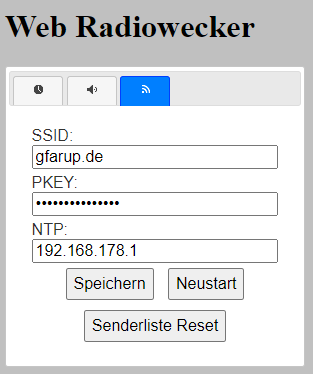
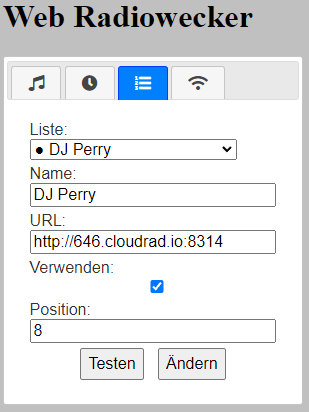
Remote Player
Von der Konfig Webseite ist jetzt eine Steuerung des Radio's möglich.

Changed region(s): [[0.0, 0.0, 0.9903, 1.0], [0.8738, 0.6471, 0.9029, 0.7059]]

diff --git a/radiowecker/index.h b/radiowecker/index.h
@@ -10,22 +10,33 @@ const char MAIN_page[] PROGMEM = R"=====(
 <script src="https://ajax.googleapis.com/ajax/libs/jquery/3.5.1/jquery.min.js"></script>
 <link rel="stylesheet" href="//code.jquery.com/ui/1.12.1/themes/base/jquery-ui.min.css">
 <script src="https://code.jquery.com/ui/1.12.1/jquery-ui.min.js"></script>
-
+<link rel="stylesheet" href="//use.fontawesome.com/releases/v5.0.7/css/all.css">
 <script>
 $(document).ready(function() {
-    $("#tabs").tabs();
-});
-
-$(function() {
-    $(document).ready(getAll);
-    $("#btn_save").click(saveSSID);
-    $("#btn_reset").click(restartHost);
-    $("#btn_test").click(testStation);
-    $("#btn_updt").click(updateStation);
-    $("#btn_restore").click(restoreStations);
-    $("#btn_savealarm").click(setAlarms);
-    $("#btn_cancelalarm").click(getAlarms);
-    $("#stationlist").change(getStation);
+  $("#tabs").tabs();
+  //Standard Stuff
+  getAll();
+  $("#btn_save").click(saveSSID);
+  $("#btn_reset").click(restartHost);
+  $("#btn_test").click(testStation);
+  $("#btn_updt").click(updateStation);
+  $("#btn_restore").click(restoreStations);
+  $("#btn_savealarm").click(setAlarms);
+  $("#btn_cancelalarm").click(getAlarms);
+  $("#stationlist").change(getStation);
+  // Player Tab ######################
+  $("#btn_play").click(startPlay);
+  $("#btn_stop").click(stopPlay);
+  GainSlider();
+  $("#tabs").tabs({
+    activate: function(event, ui) {
+      // Überprüfen, ob das aktivierte Tab die ID "#player" hat
+      if (ui.newTab.find("a").attr("href") === "#player") {
+        // Wenn ja, AJAX-Anfrage auslösen
+        updateGainSlider();
+      }
+    }
+  });       
 });
 
 function getAll() {
@@ -191,6 +202,68 @@ function restartHost() {
         data:{},
     });
 }
+// Player Tab ######################
+function startPlay() {
+    $.ajax({
+        type:"POST",
+        url:"/cmd/startPlay",
+        data:{},
+    });
+}
+function stopPlay() {
+    $.ajax({
+        type:"POST",
+        url:"/cmd/stopPlay",
+        data:{},
+    });
+}
+function GainSlider() {
+  $("#GainSlider").slider({
+    min: 0,
+    max: 100,    
+    stop: function(event, ui) {
+      var sliderValue = ui.value;
+      console.log("Slider-Wert:", sliderValue);
+      // Daten senden
+      $.ajax({
+          type:"GET",
+          url:"/cmd/GainSlider",
+          data:{"GainValue":sliderValue},
+          success: function(data){
+
+          },
+          error: function() {
+              alert("ERROR");
+          }
+      });
+    }   
+  });
+  $.ajax({
+    type: "GET",
+    url: "/cmd/getCurrentGain",
+    success: function (data) {
+      // Hier den zurückgegebenen Wert als Startwert für den Slider verwenden
+      var currentGain = parseInt(data);
+      $("#GainSlider").slider("value", currentGain);
+    },
+    error: function () {
+      alert("Fehler beim Abrufen des Gain-Werts");
+    },
+  });  
+}
+function updateGainSlider() {
+  $.ajax({
+    type: "GET",
+    url: "/cmd/getCurrentGain",
+    success: function (data) {
+      var currentGain = parseInt(data);
+      $("#GainSlider").slider("value", currentGain);
+    },
+    error: function () {
+      alert("Fehler beim Abrufen des Gain-Werts");
+    },
+  });
+}
 </script>
 <style>
 body {
@@ -246,10 +319,19 @@ input {
 
 <div id="tabs">
     <ul>
-        <li><a href="#wecker"><span class="ui-icon ui-icon-clock">Wecker</span></a></li>
-        <li><a href="#radio"><span class="ui-icon ui-icon-volume-on">Radio</span></a></li>   
-        <li><a href="#wlan"><span class="ui-icon ui-icon-signal-diag">WLAN</span></a></li>
+        <li><a href="#player"><i class="fa fa-music"></i></a></li>    
+        <li><a href="#wecker"><i class="fa fa-clock"></i></a></li>
+        <li><a href="#radio"><i class="fas fa-list-ol"></i></a></li>   
+        <li><a href="#wlan"><i class="fa fa-wifi"></i></a></li>
     </ul>
+    <div id="player">
+      <div align="center">
+        <button id="btn_play" type="button"><i class="fas fa-play"></i></button>
+        <button id="btn_stop" type="button"><i class="fas fa-stop"></i></button>
+        <br />
+        <i class="fas fa-volume-up"></i><div id="GainSlider"></div>
+      </div>
+    </div>    
     <div id="wecker">
       <label>Weckzeit 1:
           <input id="al0" type="time" />

diff --git a/README.md b/README.md
@@ -8,6 +8,7 @@ Original Beitrag:
 https://www.az-delivery.de/blogs/azdelivery-blog-fur-arduino-und-raspberry-pi/internet-radiowecker-mit-touchscreen?comment=134773833995#comments
 
 Die Anpassungen:
+NEU: Jetzt Remote steuerung des Radios von der Webseite möglich. (siehe Screenshots)
 
 modernere Ansicht der Konfiguration und bessere Tages Eingabe der Wochentage beim Wecker
 
@@ -51,10 +52,10 @@ Hier einige Ansichten:
 
 ![Color Setting](screenshot/settings_color.png?raw=true "Setting")
 
-![Konfig Website](screenshot/website.png?raw=true "Wecker")
+![Konfig Website](screenshot/website.png?raw=true "Musik")
 
-![Konfig Website](screenshot/website_1.png?raw=true "Radio")
+![Konfig Website](screenshot/website_1.png?raw=true "Wecker")
 
-![Konfig Website](screenshot/website_2.png?raw=true "Wlan")
+![Konfig Website](screenshot/website_2.png?raw=true "Radio")
 
-
+![Konfig Website](screenshot/website_3.png?raw=true "Wlan")
